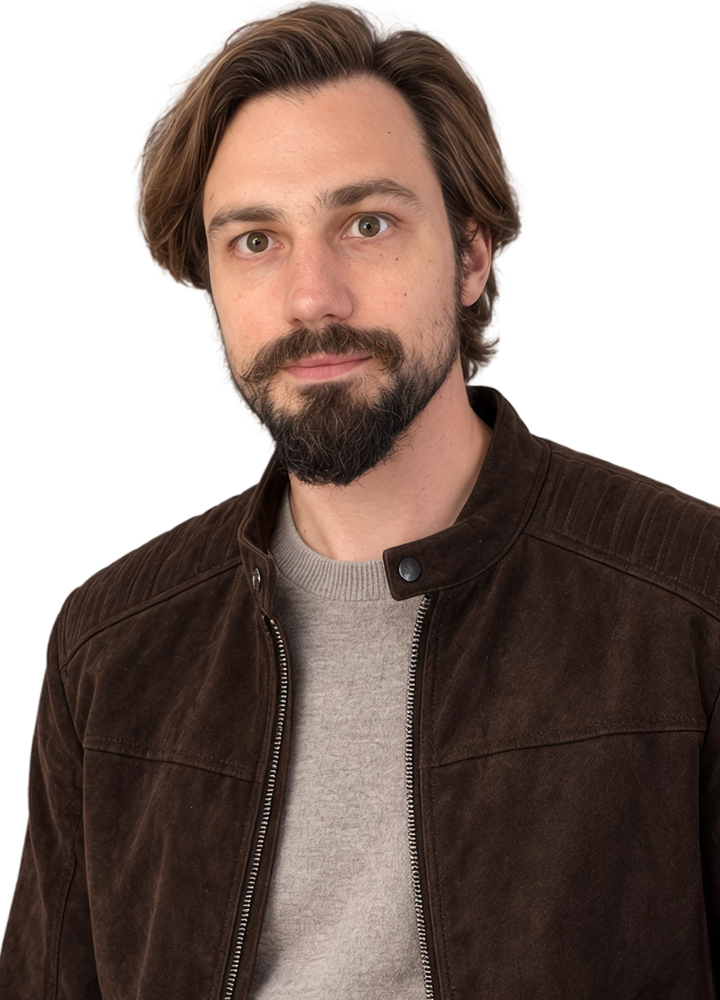
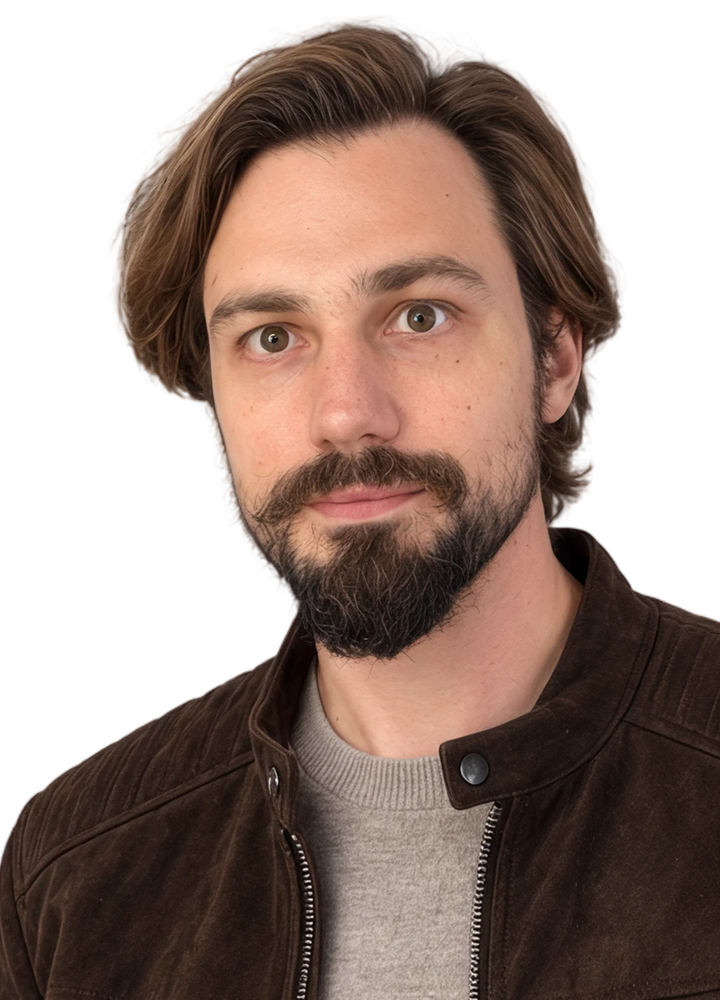
fix(webinars): close the seam before registration, recentre the speaker crop
Two defects spotted on the deploy preview, plus a stronger hero.

The empty stripe between the closing band and the registration form. Since
the form moved to the end of the funnel the two sections sit back to back,
and they were stacking two full section paddings and meeting on a visible
line: .ws-final fades DOWN to #090d18 while .ws-register__bg started again
at the lighter --ws-navy, and the closing band's glow and grid ended
abruptly at its own edge. The registration ground now continues the
gradient it is joined to, the doubled padding is gone, and the closing
band's decorative layers fade out over its last 42% so nothing terminates
on an edge.

The dead corner in the speaker portrait. The crop was taken from the
master's full torso box, which put the head left of centre and left a
column of empty panel down the right side of the frame. The crop is now
derived from the subject's own alpha: centred on the face (head bbox
centre x=1351, not the torso centre), head-top minus 30px down to the
upper chest, at the frame's 0.72 aspect. Verified: no empty column on
either edge and the bottom row of the crop is fully covered.

The hero backdrop, reworked for contrast. `aurora` was too soft to
distinguish the page. It is now a diagonal tonal ramp that runs near-black
under the headline and opens into a saturated violet bloom behind the
portrait, with a cyan sweep bottom right and a rim light on the portrait
stage so the dark suede jacket separates from the ground. Two
[…]

diff --git a/assets/css/aenix-events.css b/assets/css/aenix-events.css
@@ -723,6 +723,170 @@ a.tour-event__title:hover { color: var(--ws-blue); text-decoration: underline; }
   width: 100%;
   height: auto;
 }
+/* ==========================================================================
+   HERO BACKGROUND VARIANTS (`hero_bg:` in frontmatter)
+   Five campaign landings shared one backdrop — 48px grid plus a blue glow —
+   so a reader holding several campaign links could not tell them apart.
+   Each variant swaps the motif and shifts the accent, inside the same tokens.
+   Omit `hero_bg` and a page keeps the house default untouched.
+   ========================================================================== */
+
+/* --- silicon: a wafer. Concentric rings centred behind the portrait over a
+       fine lattice, the glow led by violet instead of blue. -------------- */
+.ws-hero--silicon {
+  background:
+    radial-gradient(110% 85% at 88% -12%, rgba(102, 27, 225, 0.2), transparent 55%),
+    radial-gradient(85% 75% at -5% 105%, rgba(1, 165, 255, 0.12), transparent 58%),
+    linear-gradient(180deg, var(--ws-navy-deep), var(--bg-main, #0b0f1a));
+}
+.ws-hero--silicon .ws-hero__bg-grid {
+  background-image:
+    linear-gradient(rgba(255, 255, 255, 0.05) 1px, transparent 1px),
+    linear-gradient(90deg, rgba(255, 255, 255, 0.05) 1px, transparent 1px);
+  background-size: 24px 24px;
+  -webkit-mask-image: radial-gradient(112% 92% at 74% 20%, #000 22%, transparent 74%);
+  mask-image: radial-gradient(112% 92% at 74% 20%, #000 22%, transparent 74%);
+}
+/* the wafer: concentric rings stepping out from behind the portrait's head */
+.ws-hero--silicon .ws-hero__bg-grid::after {
+  content: "";
+  position: absolute; inset: 0;
+  background-image: repeating-radial-gradient(
+    circle at 74% 28%,
+    rgba(167, 139, 250, 0.16) 0 1px,
+    transparent 1px 46px
+  );
+  -webkit-mask-image: radial-gradient(62% 58% at 74% 28%, #000 6%, transparent 84%);
+  mask-image: radial-gradient(62% 58% at 74% 28%, #000 6%, transparent 84%);
+}
+.ws-hero--silicon .ws-hero__bg-glow {
+  background:
+    radial-gradient(38% 34% at 76% 26%, rgba(102, 27, 225, 0.24), transparent 70%),
+    radial-gradient(30% 28% at 88% 62%, rgba(1, 165, 255, 0.12), transparent 72%);
+}
+
+/* --- utilization: the page's own argument as the backdrop. Bars rise behind
+       the portrait, sparse and dim on the left, dense and bright on the
+       right, the way a utilization graph fills up. ----------------------- */
+.ws-hero--utilization .ws-hero__bg-grid {
+  background-image: repeating-linear-gradient(
+    180deg,
+    rgba(1, 165, 255, 0.16) 0 2px,
+    transparent 2px 15px
+  );
+  background-size: auto;
+  -webkit-mask-image: linear-gradient(103deg, transparent 6%, rgba(0, 0, 0, 0.4) 40%, #000 82%);
+  mask-image: linear-gradient(103deg, transparent 6%, rgba(0, 0, 0, 0.4) 40%, #000 82%);
+}
+.ws-hero--utilization .ws-hero__bg-glow {
+  background:
+    radial-gradient(46% 38% at 74% 66%, rgba(1, 165, 255, 0.2), transparent 72%),
+    radial-gradient(40% 34% at 30% 96%, rgba(102, 27, 225, 0.16), transparent 74%);
+}
+
+/* --- fabric: the interconnect. A diagonal mesh with nodes where the lines
+       cross, violet-led, no square grid anywhere. ------------------------ */
+.ws-hero--fabric {
+  background:
+    radial-gradient(115% 90% at 78% -10%, rgba(102, 27, 225, 0.19), transparent 58%),
+    radial-gradient(95% 80% at 8% 108%, rgba(1, 165, 255, 0.13), transparent 60%),
+    linear-gradient(180deg, var(--ws-navy-deep), var(--bg-main, #0b0f1a));
+}
+.ws-hero--fabric .ws-hero__bg-grid {
+  background-image:
+    repeating-linear-gradient(58deg, rgba(145, 219, 235, 0.1) 0 1px, transparent 1px 58px),
+    repeating-linear-gradient(-58deg, rgba(167, 139, 250, 0.11) 0 1px, transparent 1px 58px);
+  background-size: auto;
+  -webkit-mask-image: radial-gradient(120% 100% at 68% 24%, #000 22%, transparent 82%);
+  mask-image: radial-gradient(120% 100% at 68% 24%, #000 22%, transparent 82%);
+}
+.ws-hero--fabric .ws-hero__bg-grid::after {
+  content: "";
+  position: absolute; inset: 0;
+  background-image: radial-gradient(circle, rgba(145, 219, 235, 0.34) 0 1.4px, transparent 1.6px);
+  background-size: 73px 73px;
+  -webkit-mask-image: radial-gradient(58% 52% at 70% 32%, #000 10%, transparent 74%);
+  mask-image: radial-gradient(58% 52% at 70% 32%, #000 10%, transparent 74%);
+}
+.ws-hero--fabric .ws-hero__bg-glow {
+  background:
+    radial-gradient(40% 36% at 72% 30%, rgba(102, 27, 225, 0.22), transparent 70%),
+    radial-gradient(34% 30% at 26% 84%, rgba(1, 165, 255, 0.13), transparent 72%);
+}
+
+/* --- aurora: no grid, no mesh. A diagonal tonal ramp that runs near-black
+       under the headline and opens into a saturated violet bloom behind the
+       portrait, with a cyan sweep across the bottom right and a bright rim
+       behind the figure so the dark jacket separates from the ground. ---- */
+.ws-hero--aurora {
+  background:
+    radial-gradient(46% 44% at 74% 26%, rgba(102, 27, 225, 0.52), transparent 68%),
+    radial-gradient(38% 34% at 98% 78%, rgba(1, 165, 255, 0.32), transparent 70%),
+    radial-gradient(52% 46% at 6% 96%, rgba(102, 27, 225, 0.14), transparent 66%),
+    linear-gradient(112deg, #04060c 0%, #06090f 34%, #0a0f20 58%, #150b30 100%);
+}
+.ws-hero--aurora .ws-hero__bg-grid { display: none; }
+.ws-hero--aurora .ws-hero__bg-glow {
+  background: radial-gradient(30% 26% at 78% 30%, rgba(167, 139, 250, 0.3), transparent 72%);
+}
+.ws-hero--aurora .ws-hero__stage-glow {
+  background:
+    radial-gradient(30% 27% at 56% 22%, rgba(145, 219, 235, 0.42), transparent 64%),
+    radial-gradient(46% 40% at 50% 66%, rgba(102, 27, 225, 0.3), transparent 72%);
+  filter: blur(10px);
+}
+
+/* --- spotlight: one hard-falloff ellipse behind the portrait on a nearly
+       black stage. The highest-contrast option — a lit subject, not a lit
+       background. ------------------------------------------------------- */
+.ws-hero--spotlight {
+  background:
+    radial-gradient(40% 52% at 74% 34%, rgba(1, 165, 255, 0.34) 0%, rgba(102, 27, 225, 0.24) 44%, transparent 72%),
+    linear-gradient(180deg, #03050a, #05070e);
+}
+.ws-hero--spotlight .ws-hero__bg-grid {
+  background-image:
+    linear-gradient(rgba(255, 255, 255, 0.035) 1px, transparent 1px),
+    linear-gradient(90deg, rgba(255, 255, 255, 0.035) 1px, transparent 1px);
+  background-size: 64px 64px;
+  -webkit-mask-image: radial-gradient(42% 54% at 74% 34%, #000 10%, transparent 70%);
+  mask-image: radial-gradient(42% 54% at 74% 34%, #000 10%, transparent 70%);
+}
+.ws-hero--spotlight .ws-hero__bg-glow { background: none; }
+.ws-hero--spotlight .ws-hero__stage-glow {
+  background: radial-gradient(32% 30% at 54% 24%, rgba(214, 236, 255, 0.5), transparent 60%);
+  filter: blur(14px);
+}
+
+/* --- beam: diagonal shafts of light from the top right across a near-black
+       stage, violet into cyan. Graphic rather than atmospheric. --------- */
+.ws-hero--beam {
+  background:
+    radial-gradient(44% 40% at 84% 18%, rgba(102, 27, 225, 0.4), transparent 68%),
+    linear-gradient(180deg, #04060c, #070a14);
+}
+.ws-hero--beam .ws-hero__bg-grid {
+  background-image: repeating-linear-gradient(
+    116deg,
+    rgba(145, 219, 235, 0.11) 0 2px,
+    transparent 2px 26px,
+    rgba(102, 27, 225, 0.16) 26px 30px,
+    transparent 30px 74px
+  );
+  background-size: auto;
+  -webkit-mask-image: linear-gradient(116deg, #000 4%, rgba(0, 0, 0, 0.5) 46%, transparent 84%);
+  mask-image: linear-gradient(116deg, #000 4%, rgba(0, 0, 0, 0.5) 46%, transparent 84%);
+}
+.ws-hero--beam .ws-hero__bg-glow {
+  background: radial-gradient(34% 30% at 92% 74%, rgba(1, 165, 255, 0.26), transparent 72%);
+}
+.ws-hero--beam .ws-hero__stage-glow {
+  background:
+    radial-gradient(28% 26% at 58% 22%, rgba(145, 219, 235, 0.36), transparent 62%),
+    radial-gradient(44% 38% at 46% 70%, rgba(102, 27, 225, 0.26), transparent 74%);
+  filter: blur(8px);
+}
+
 .event-body.ws-body { padding: 0; }
 .ws-section { position: relative; padding: 4.75rem 0; }
 .ws-wrap {
@@ -1143,6 +1307,30 @@ a.tour-event__title:hover { color: var(--ws-blue); text-decoration: underline; }
   -webkit-mask-image: radial-gradient(90% 90% at 50% 0%, #000, transparent 70%);
   mask-image: radial-gradient(90% 90% at 50% 0%, #000, transparent 70%);
 }
+/* The closing band and the registration form sit back to back since the form
+   moved to the end of the funnel. Left alone they stack two full section
+   paddings and meet at a hard edge, because .ws-final fades DOWN to #090d18
+   while .ws-register__bg starts again at the lighter --ws-navy — which read as
+   an empty stripe with a line through it. Continue the gradient instead, and
+   drop the doubled padding. */
+.ws-final + .ws-register { padding-top: 1.25rem; }
+.ws-final + .ws-register .ws-register__bg {
+  background:
+    radial-gradient(64% 78% at 50% 8%, rgba(1, 165, 255, 0.07), transparent 62%),
+    linear-gradient(180deg, #090d18, var(--ws-navy-deep));
+}
+.ws-final + .ws-register .ws-register__bg::after {
+  -webkit-mask-image: radial-gradient(85% 85% at 50% 22%, #000, transparent 72%);
+  mask-image: radial-gradient(85% 85% at 50% 22%, #000, transparent 72%);
+}
+.ws-final:has(+ .ws-register) { padding-bottom: 2.5rem; }
+/* and fade the closing band's own glow out before the join, so its decorative
+   layers stop gradually instead of ending on a line */
+.ws-final:has(+ .ws-register) .ws-final__bg {
+  -webkit-mask-image: linear-gradient(180deg, #000 58%, transparent 100%);
+  mask-image: linear-gradient(180deg, #000 58%, transparent 100%);
+}
+
 .ws-register__inner { max-width: 720px; text-align: center; }
 .ws-register .ws-h2 { margin-bottom: 0.75rem; }
 .ws-register__lead { margin: 0 auto 2rem; font-size: 1.0625rem; color: var(--aenix-text-muted); }

diff --git a/assets/css/aenix-seo-extensions.css b/assets/css/aenix-seo-extensions.css
@@ -3567,112 +3567,6 @@ a.lang-switch__item:hover { color: var(--aenix-text); background: rgba(255, 255,
 /* Hero portrait stage — portrait grounded to the bottom of the hero band */
 
 /* ==========================================================================
-   HERO BACKGROUND VARIANTS (`hero_bg:` in frontmatter)
-   Five campaign landings shared one backdrop — 48px grid plus a blue glow —
-   so a reader holding several campaign links could not tell them apart.
-   Each variant swaps the motif and shifts the accent, inside the same tokens.
-   Omit `hero_bg` and a page keeps the house default untouched.
-   ========================================================================== */
-
-/* --- silicon: a wafer. Concentric rings centred behind the portrait over a
-       fine lattice, the glow led by violet instead of blue. -------------- */
-.ws-hero--silicon {
-  background:
-    radial-gradient(110% 85% at 88% -12%, rgba(102, 27, 225, 0.2), transparent 55%),
-    radial-gradient(85% 75% at -5% 105%, rgba(1, 165, 255, 0.12), transparent 58%),
-    linear-gradient(180deg, var(--ws-navy-deep), var(--bg-main, #0b0f1a));
-}
-.ws-hero--silicon .ws-hero__bg-grid {
-  background-image:
-    linear-gradient(rgba(255, 255, 255, 0.05) 1px, transparent 1px),
-    linear-gradient(90deg, rgba(255, 255, 255, 0.05) 1px, transparent 1px);
-  background-size: 24px 24px;
-  -webkit-mask-image: radial-gradient(112% 92% at 74% 20%, #000 22%, transparent 74%);
-  mask-image: radial-gradient(112% 92% at 74% 20%, #000 22%, transparent 74%);
-}
-/* the wafer: concentric rings stepping out from behind the portrait's head */
-.ws-hero--silicon .ws-hero__bg-grid::after {
-  content: "";
-  position: absolute; inset: 0;
-  background-image: repeating-radial-gradient(
-    circle at 74% 28%,
-    rgba(167, 139, 250, 0.16) 0 1px,
-    transparent 1px 46px
-  );
-  -webkit-mask-image: radial-gradient(62% 58% at 74% 28%, #000 6%, transparent 84%);
-  mask-image: radial-gradient(62% 58% at 74% 28%, #000 6%, transparent 84%);
-}
-.ws-hero--silicon .ws-hero__bg-glow {
-  background:
-    radial-gradient(38% 34% at 76% 26%, rgba(102, 27, 225, 0.24), transparent 70%),
-    radial-gradient(30% 28% at 88% 62%, rgba(1, 165, 255, 0.12), transparent 72%);
-}
-
-/* --- utilization: the page's own argument as the backdrop. Bars rise behind
-       the portrait, sparse and dim on the left, dense and bright on the
-       right, the way a utilization graph fills up. ----------------------- */
-.ws-hero--utilization .ws-hero__bg-grid {
-  background-image: repeating-linear-gradient(
-    180deg,
-    rgba(1, 165, 255, 0.16) 0 2px,
-    transparent 2px 15px
-  );
-  background-size: auto;
-  -webkit-mask-image: linear-gradient(103deg, transparent 6%, rgba(0, 0, 0, 0.4) 40%, #000 82%);
-  mask-image: linear-gradient(103deg, transparent 6%, rgba(0, 0, 0, 0.4) 40%, #000 82%);
-}
-.ws-hero--utilization .ws-hero__bg-glow {
-  background:
-    radial-gradient(46% 38% at 74% 66%, rgba(1, 165, 255, 0.2), transparent 72%),
-    radial-gradient(40% 34% at 30% 96%, rgba(102, 27, 225, 0.16), transparent 74%);
-}
-
-/* --- fabric: the interconnect. A diagonal mesh with nodes where the lines
-       cross, violet-led, no square grid anywhere. ------------------------ */
-.ws-hero--fabric {
-  background:
-    radial-gradient(115% 90% at 78% -10%, rgba(102, 27, 225, 0.19), transparent 58%),
-    radial-gradient(95% 80% at 8% 108%, rgba(1, 165, 255, 0.13), transparent 60%),
-    linear-gradient(180deg, var(--ws-navy-deep), var(--bg-main, #0b0f1a));
-}
-.ws-hero--fabric .ws-hero__bg-grid {
-  background-image:
-    repeating-linear-gradient(58deg, rgba(145, 219, 235, 0.1) 0 1px, transparent 1px 58px),
-    repeating-linear-gradient(-58deg, rgba(167, 139, 250, 0.11) 0 1px, transparent 1px 58px);
-  background-size: auto;
-  -webkit-mask-image: radial-gradient(120% 100% at 68% 24%, #000 22%, transparent 82%);
-  mask-image: radial-gradient(120% 100% at 68% 24%, #000 22%, transparent 82%);
-}
-.ws-hero--fabric .ws-hero__bg-grid::after {
-  content: "";
-  position: absolute; inset: 0;
-  background-image: radial-gradient(circle, rgba(145, 219, 235, 0.34) 0 1.4px, transparent 1.6px);
-  background-size: 73px 73px;
-  -webkit-mask-image: radial-gradient(58% 52% at 70% 32%, #000 10%, transparent 74%);
-  mask-image: radial-gradient(58% 52% at 70% 32%, #000 10%, transparent 74%);
-}
-.ws-hero--fabric .ws-hero__bg-glow {
-  background:
-    radial-gradient(40% 36% at 72% 30%, rgba(102, 27, 225, 0.22), transparent 70%),
-    radial-gradient(34% 30% at 26% 84%, rgba(1, 165, 255, 0.13), transparent 72%);
-}
-
-/* --- aurora: the quiet option. No grid, no mesh — one wide violet-to-cyan
-       sweep behind the portrait, so the hero reads by colour alone. ------ */
-.ws-hero--aurora {
-  background:
-    radial-gradient(130% 100% at 72% -18%, rgba(102, 27, 225, 0.28), transparent 62%),
-    radial-gradient(95% 85% at 100% 55%, rgba(1, 165, 255, 0.18), transparent 62%),
-    radial-gradient(80% 70% at -8% 100%, rgba(145, 219, 235, 0.08), transparent 60%),
-    linear-gradient(180deg, var(--ws-navy-deep), var(--bg-main, #0b0f1a));
-}
-.ws-hero--aurora .ws-hero__bg-grid { display: none; }
-.ws-hero--aurora .ws-hero__bg-glow {
-  background: radial-gradient(52% 46% at 76% 34%, rgba(167, 139, 250, 0.16), transparent 74%);
-  filter: blur(2px);
-}
-
-/* ==========================================================================
    BODY + SECTION SCAFFOLD
    ========================================================================== */
 

diff --git a/layouts/_default/event-landing.html b/layouts/_default/event-landing.html
@@ -26,6 +26,10 @@
                          silicon     — wafer lattice, violet-led (GPU)
                          utilization — rising bars behind the portrait
                          fabric      — diagonal interconnect mesh
+                         aurora      — no motif: diagonal tonal ramp,
+                                       violet bloom, rim-lit portrait
+                         spotlight   — one hard ellipse on a black stage
+                         beam        — diagonal light shafts, graphic
     translation      — list of {from, to} term pairs (optional signature strip)
     stats            — list of {number, label} pain stats (optional)
     inshort_title    — heading for the direct_answer/quick_facts section
